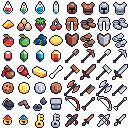
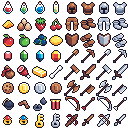
Финалочка

Changed region(s): [[0.375, 0.75, 0.5, 0.875]]

diff --git a/classes.cpp b/classes.cpp
@@ -14,19 +14,12 @@ using sf::RenderWindow;
 
 const sf::Color GROUNG_COLOR = sf::Color(100, 100, 100);
 const sf::Color SKYBOX_COLOR = sf::Color(35, 87, 97);
-const sf::Color WALL_COLOR = sf::Color::Blue;
+const sf::Color AMMO_TEXT_COLOR = sf::Color(191, 182, 57, 200);
 const sf::Color HP_TEXT_COLOR = sf::Color(181, 9, 15, 200);
-const sf::Color ARM_TEXT_COLOR = sf::Color(5, 150, 41, 200);
+const sf::Color ARM_TEXT_COLOR = sf::Color(5, 14, 150, 200);
 
 Vector2f defaultPlayerPos = Vector2f(-4.56137, 0.51811);
 float defaultPlayerFAngle = 0.f;
-
-const Vector2f WALLS[14] = { Vector2f(0.f, 3.f), Vector2f(4.f, 2.f),
-Vector2f(4.f, 2.f), Vector2f(4.f, 6.f), Vector2f(0.f, 3.f), Vector2f(4.f, 6.f),
-Vector2f(9.f, -5.f),
-Vector2f(9.f, 8.f), Vector2f(9.f, -5.f), Vector2f(-4.f, -5.f),
-Vector2f(9, 8), Vector2f(-4, 8), Vector2f(-4, 8),Vector2f(-4, -5) };
-
 
 template <typename T>
 void sorting(T* arr, short count) {
@@ -93,7 +86,7 @@ Level Game::loadLevel(std::string levelPath) {
 	}
 	level.countOfWalls = count;
 
-	map >> count; // things
+	map >> count; // sprites
 	for (int i = 0; i < count; i++) {
 		float x1, y1, length;
 		short _preset;
@@ -101,7 +94,7 @@ Level Game::loadLevel(std::string levelPath) {
 		map >> x1;
 
 		if (x1 == -9999) {
-			count = i + 1;
+			count = i;
 			break;
 		}
 
@@ -116,25 +109,45 @@ Level Game::loadLevel(std::string levelPath) {
 }
 
 void Game::createPresets() {
-	// wall_0
+	// walls
 	presets[0].setParameters(0, "wall", Vector2i(0, 288), Vector2i(96, 96), 
 		wallSize, 0);
-
-	// wall_2
-	presets[1].setParameters(0, "wall", Vector2i(384, 288), Vector2i(96, 96),
+	presets[1].setParameters(0, "wall", Vector2i(0, 384), Vector2i(96, 96),
+		wallSize, 0);
+	presets[2].setParameters(0, "wall", Vector2i(480, 96), Vector2i(96, 96),
+		wallSize, 0);
+	presets[3].setParameters(0, "wall", Vector2i(288, 0), Vector2i(96, 96),
+		wallSize, 0);
+	presets[4].setParameters(0, "wall", Vector2i(384, 480), Vector2i(96, 96),
 		wallSize, 0);
 
 	float dh = winSize.y * 0.15;
 	short dst = winSize.y * 0.125;
 	// aidkit
-	presets[2].setParameters(1, "aidkit", Vector2i(17, 65), Vector2i(14, 14),
+	presets[5].setParameters(1, "aidkit", Vector2i(17, 65), Vector2i(14, 14),
+		dh, dst);
+	presets[6].setParameters(1, "aidkit", Vector2i(3, 34), Vector2i(11, 13),
+		dh, dst);
+	presets[7].setParameters(1, "aidkit", Vector2i(2, 82), Vector2i(12, 12),
 		dh, dst);
 	// for things: dst + (dh - h)
+	// armour
+	presets[8].setParameters(1, "armour", Vector2i(97, 33), Vector2i(14, 14),
+		dh, dst);
+	presets[9].setParameters(1, "armour", Vector2i(99, 2), Vector2i(10, 12),
+		dh, dst);
+	// ammo
+	presets[10].setParameters(1, "ammo", Vector2i(50, 99), Vector2i(11, 11),
+		dh, dst);
 
 	dh = winSize.y * 0.275;
 	dst = (wallSize - dh) / 2;
-	// enemy_0
-	presets[3].setParameters(2, "enemy_0", Vector2i(483, 208), Vector2i(41, 51),
+	// enemy
+	presets[11].setParameters(2, "enemy", Vector2i(483, 208), Vector2i(41, 51),
+		dh, dst);
+	presets[12].setParameters(2, "enemy", Vector2i(51, 208), Vector2i(41, 51),
+		dh, dst);
+	presets[13].setParameters(2, "enemy", Vector2i(195, 0), Vector2i(41, 51),
 		dh, dst);
 }
 
@@ -193,7 +206,12 @@ void Game::movementController(sf::Keyboard::Key key, float time) {
 	if (fabs(dx) < 0.000001) dx = 0;
 	if (fabs(dy) < 0.000001) dy = 0;
 
-	move(Game::player, dx, dy, time);
+	float distance = 1;
+	bool haveWall = false;
+	Vector2f point;
+	Wall collisionWall = findVisibleWall(haveWall, point, distance, acos(dx));
+
+	if (distance > 0.4 || !haveWall) move(Game::player, dx, dy, time);
 }
 
 template <typename T>
@@ -205,6 +223,53 @@ void Game::move(T& object, float dx, float dy, float time) {
 	x = dx * distance + object.position.x;
 	y = dy * distance + object.position.y;
 	object.position = Vector2f(x, y);
+}
+
+void Game::shoot() {
+	if (player.ammo <= 0 || player.animation->type != "hold") return;
+
+	player.animation = &player.animations[1];
+	player.ammo -= 2;
+
+	updateRenderingArrays();
+	updateSpriteObjectsAround();
+
+	SpriteObject sprite;
+	short n = 0;
+	bool wasHit = false;
+	for (int i = 0; i < level.countOfSpriteObjects; i++) {
+		sprite = level.spriteObjects[i];
+
+		if (sprite.preset.name != "enemy" || wasHit) {
+			level.spriteObjects[n] = sprite;
+			n++;
+			continue;
+		}
+
+		bool isHit = false;
+		checkCrossing(player.position, player.centralAngle, sprite.leftPos,
+			sprite.rightPos, isHit);
+
+		if (!isHit) {
+			level.spriteObjects[n] = sprite;
+			n++;
+			continue;
+		}
+
+		sprite.health -= player.damage;
+		wasHit = true;
+		std::cout << "hit" << std::endl;
+
+		continue;
+
+		if (sprite.health < 0) {
+			continue;
+		}
+		
+		level.spriteObjects[n] = sprite;
+		n++;
+	}
+	level.countOfSpriteObjects = n;
 }
 
 void Game::render(RenderWindow& win, float time) {
@@ -424,11 +489,11 @@ void Game::createPolygon(T obj, sf::Sprite& polygon, Vector2f point, float angle
 }
 
 void Game::drawInterface(RenderWindow& win) {
-	drawCrosshair(win);
+	// drawCrosshair(win);
 
 	drawWeapon(win);
 
-	//drawStats(win);
+	drawStats(win);
 }
 
 void Game::drawCrosshair(RenderWindow& win) {
@@ -476,8 +541,21 @@ void Game::drawStats(RenderWindow& win) {
 
 	stats.setFillColor(HP_TEXT_COLOR);
 	stats.setString("HP " + std::to_string(player.health));
-	stats.setPosition((float)winSize.x * 0.25,
-		(float)winSize.y * 0.8);
+	stats.setPosition((float)winSize.x * 0.1,
+		(float)winSize.y * 0.75);
+	win.draw(stats);
+
+	stats.setFillColor(ARM_TEXT_COLOR);
+	stats.setString("ARMOUR " + std::to_string(player.armour));
+	stats.setPosition((float)winSize.x * 0.1,
+		(float)winSize.y * 0.85);
+	win.draw(stats);
+
+	stats.setCharacterSize(52);
+	stats.setFillColor(AMMO_TEXT_COLOR);
+	stats.setString("AMMO " + std::to_string(player.ammo));
+	stats.setPosition((float)winSize.x * 0.8,
+		(float)winSize.y * 0.85);
 	win.draw(stats);
 }
 
@@ -487,6 +565,42 @@ void Game::update(float time) {
 	updateSpriteObjectsAround();
 
 	player.changeFrame(time);
+	if (player.delayTakeDamage > 0) {
+		player.delayTakeDamage -= time;
+	}
+
+	SpriteObject sprite;
+	short n = 0;
+	for (int i = 0; i < level.countOfSpriteObjects; i++) {
+		sprite = level.spriteObjects[i];
+		if (sprite.lastDistanceToPlayer > INTERACTION_RADIUS) {
+			level.spriteObjects[n] = sprite;
+			n++;
+			continue;
+		}
+
+		if (sprite.preset.name == "enemy" && player.delayTakeDamage <= 0) {
+			if (player.armour > 0) player.armour -= std::min(20, (int)player.armour);
+			else player.health -= 20;
+			player.delayTakeDamage = 1.f;
+		}
+		else if (sprite.preset.name == "aidkit" && player.health < 100) {
+			player.health += 25;
+			continue;
+		}
+		else if (sprite.preset.name == "armour") {
+			player.armour += 25;
+			continue;
+		}
+		else if (sprite.preset.name == "ammo") {
+			player.ammo += 10;
+			continue;
+		}
+
+		level.spriteObjects[n] = sprite;
+		n++;
+	}
+	level.countOfSpriteObjects = n;
 }
 
 void Game::updateRenderingArrays() {
@@ -502,7 +616,7 @@ void Game::updateRenderingArrays() {
 			continue;
 
 		player.wallsAround[n] = wall;
-		n++;
+		n += 1;
 	}
 	player.countOfWallsAround = n;
 
@@ -510,6 +624,7 @@ void Game::updateRenderingArrays() {
 	for (int i = 0; i < level.countOfSpriteObjects; i++) {
 		SpriteObject& obj = level.spriteObjects[i];
 		float dis = getDistance(obj.middlePos, player.position);
+		obj.lastDistanceToPlayer = dis;
 
 		if (dis > renderingRadius)
 			continue;

diff --git a/classes.h b/classes.h
@@ -23,8 +23,8 @@ namespace objects {
 	const int MAX_COUNT_OF_WALLS = 100;
 	const short MAX_WALLS_AROUND = MAX_COUNT_OF_WALLS / 4;
 
-	const short MAX_COUNT_OF_SPRITES = 50;
-	const short MAX_SPRITES_AROUND = 30;
+	const short MAX_COUNT_OF_SPRITES = 32;
+	const short MAX_SPRITES_AROUND = 16;
 
 	const short MAX_COUNT_OF_FRAMES = 16;
 
@@ -33,7 +33,7 @@ namespace objects {
 	const std::string START_LEVEL = "levels/level1.txt";
 
 	const float PLAYER_SPEED = 2.5;
-	const float PLAYER_ROTATIONAL_SPEED = 0.1;
+	const float INTERACTION_RADIUS = 1.f;
 
 	class SpritesPreset {
 	public:
@@ -41,7 +41,7 @@ namespace objects {
 			Vector2i pos, Vector2i size, float height, short shift);
 
 		short type;
-		std::string name;
+		std::string name = "dsfgsfg";
 
 		Vector2i positionInTileMap;
 		Vector2i sizeInTileMap;
@@ -91,8 +91,8 @@ namespace objects {
 		float lastDistanceToPlayer;
 		Vector2f pointOfCollision;
 
-		float health;
-		bool isAlive;
+		float health = 100;
+		bool isAlive = true;
 	};
 
 	class Level {
@@ -129,13 +129,17 @@ namespace objects {
 		Vector2f direction;
 
 		float speed = PLAYER_SPEED;
-		float rotationalSpeed = PLAYER_ROTATIONAL_SPEED;
+
+		float delayTakeDamage = 0;
 
 		Vector2f position;
 
 		short health = 100;
 		short armour = 0;
 		short ammo = 10;
+		float damage = 65.f;
+
+		short kills = 0;
 		
 		int countOfWallsAround = 0;
 		Wall wallsAround[MAX_WALLS_AROUND];
@@ -200,6 +204,8 @@ namespace objects {
 		template <typename T>
 		void move(T& object, float dx, float dy, float time);
 
+		void shoot();
+
 		Vector2u winSize;
 
 		float stepInPixels;
@@ -221,6 +227,6 @@ namespace objects {
 		Vector2i centralMousePos = Vector2i(MAX_WIDTH / 2, MAX_HEIGHT / 2);
 
 		sf::Texture texturePack[4];
-		SpritesPreset presets[5];
+		SpritesPreset presets[16];
 	};
 }

diff --git a/main.cpp b/main.cpp
@@ -53,10 +53,12 @@ int main()
                 window.close();
         }
 
+        game.update(time);
+
         game.viewController(window, mouse, time);
 
-        if (Mouse::isButtonPressed(Mouse::Left) && game.player.animation->type == "hold") {
-            game.player.animation = &game.player.animations[1];
+        if (Mouse::isButtonPressed(Mouse::Left)) {
+            game.shoot();
         }
 
         if (Keyboard::isKeyPressed(Keyboard::W)) {
@@ -73,8 +75,6 @@ int main()
         }
 
         mouse.setPosition(game.centralMousePos);
-
-        game.update(time);
 
         window.clear();
 
